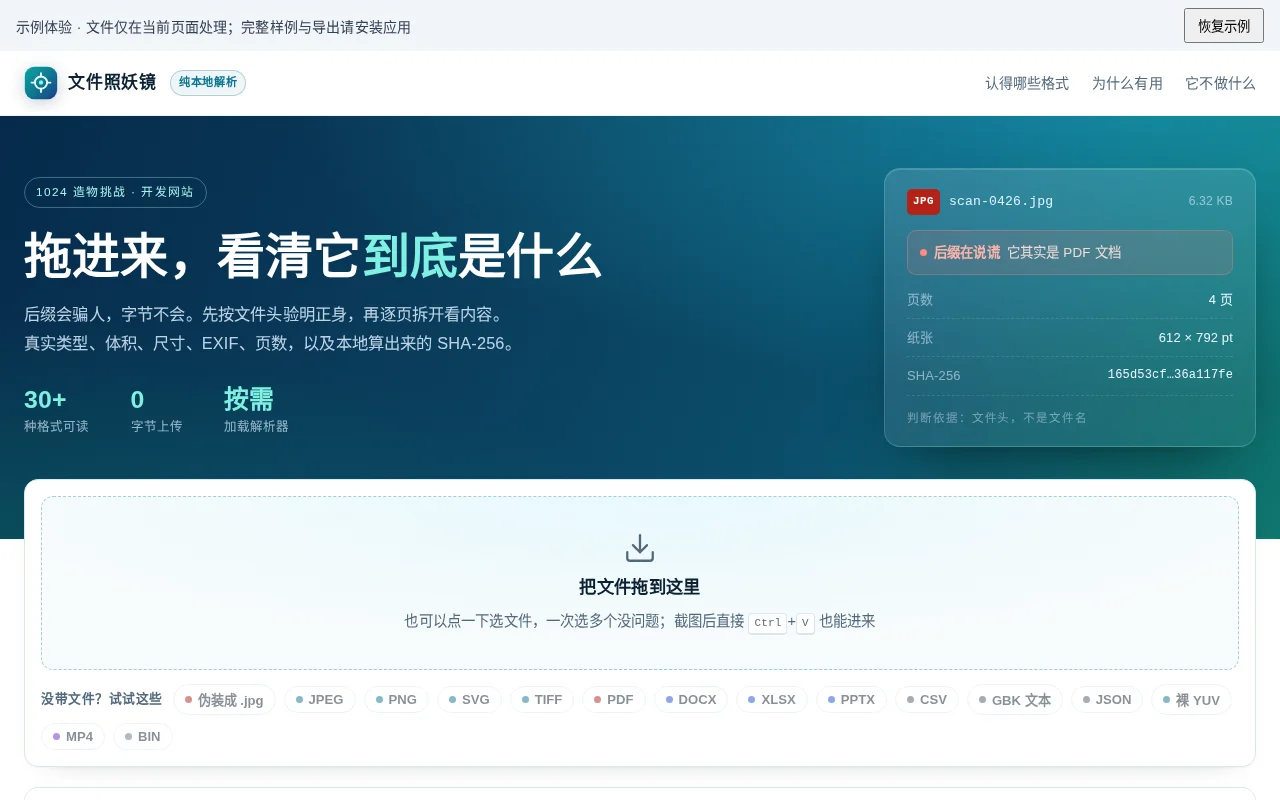
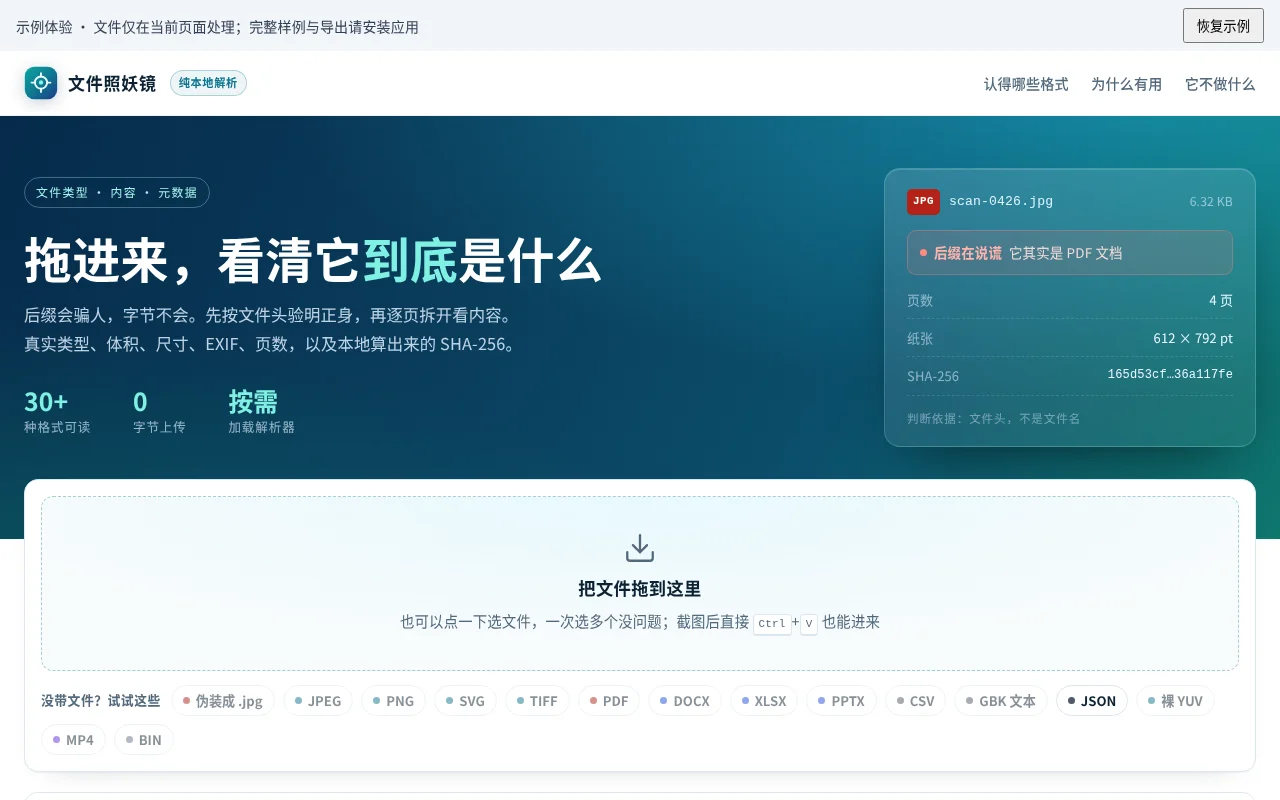
Add file inspection template

diff --git a/5742dda7dd94651282faf03e/showcase/preview.html b/5742dda7dd94651282faf03e/showcase/preview.html
@@ -2329,7 +2329,7 @@ kbd {
     <section class="hero-band" id="top">
         <div class="hero-inner">
             <div class="hero-copy">
-                <p class="hero-eyebrow">1024 造物挑战 · 开发网站</p>
+                <p class="hero-eyebrow">文件类型 · 内容 · 元数据</p>
                 <h1>拖进来，看清它<em>到底</em>是什么</h1>
                 <p class="hero-lede">
                     后缀会骗人，字节不会。先按文件头验明正身，再逐页拆开看内容。<br>

diff --git a/5742dda7dd94651282faf03e/app/index.html b/5742dda7dd94651282faf03e/app/index.html
@@ -72,7 +72,7 @@
     <section class="hero-band" id="top">
         <div class="hero-inner">
             <div class="hero-copy">
-                <p class="hero-eyebrow">1024 造物挑战 · 开发网站</p>
+                <p class="hero-eyebrow">文件类型 · 内容 · 元数据</p>
                 <h1>拖进来，看清它<em>到底</em>是什么</h1>
                 <p class="hero-lede">
                     后缀会骗人，字节不会。先按文件头验明正身，再逐页拆开看内容。<br>

diff --git a/5742dda7dd94651282faf03e/body.html b/5742dda7dd94651282faf03e/body.html
@@ -31,7 +31,7 @@
     <section class="hero-band" id="top">
         <div class="hero-inner">
             <div class="hero-copy">
-                <p class="hero-eyebrow">1024 造物挑战 · 开发网站</p>
+                <p class="hero-eyebrow">文件类型 · 内容 · 元数据</p>
                 <h1>拖进来，看清它<em>到底</em>是什么</h1>
                 <p class="hero-lede">
                     后缀会骗人，字节不会。先按文件头验明正身，再逐页拆开看内容。<br>
